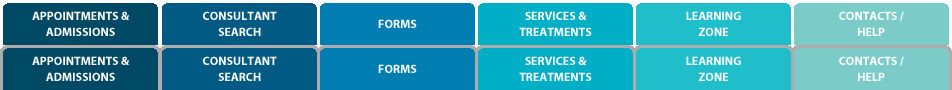
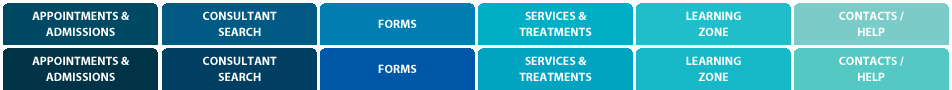
added some images, changes to masterclass form

diff --git a/masterclass/js/emailPage.js b/masterclass/js/emailPage.js
@@ -1,68 +1,78 @@
 $(document).ready(function() {
-//Email stuff**************************************
-var first = document.getElementById('yourName');
-var gmc = document.getElementById('GMC');
-var tel = document.getElementById('tel');
-var email = document.getElementById('email');
-var add1 = document.getElementById('add1');
-var add2 = document.getElementById('add2');
-var city = document.getElementById('city');
-var postcode = document.getElementById('postcode');
-var attentOnline = document.getElementById('attentOnline');
-var Date2703 = document.getElementById('2703');
-var Date0805 = document.getElementById('0805');
-var Date1907 = document.getElementById('1907');
-var Date1809 = document.getElementById('1809');
+    //Email stuff**************************************
+    var first = document.getElementById('yourName');
+    var sur = document.getElementById('surname');
+    var gmc = document.getElementById('GMC');
+    var tel = document.getElementById('tel');
+    var email = document.getElementById('email');
+    var practice = document.getElementById('practice');
+    var add1 = document.getElementById('add1');
+    var add2 = document.getElementById('add2');
+    var city = document.getElementById('city');
+    var postcode = document.getElementById('postcode');
+    var attentOnline = document.getElementById('attentOnline');
+    var Date2703 = document.getElementById('2703');
+    var Date0805 = document.getElementById('0805');
+    var Date1907 = document.getElementById('1907');
+    var Date1809 = document.getElementById('1809');
 
-var nameOn = 1;
-var gmcOn = 1;
-var telOn = 1;
-var emailOn = 1;
-var add1On = 1;
-var add2On = 1;
-var cityOn = 1;
-var postcodeOn = 1;
+    var nameOn = 1;
+    var surOn = 1;
+    var gmcOn = 1;
+    var telOn = 1;
+    var emailOn = 1;
+    var practOn = 1;
+    var add1On = 1;
+    var add2On = 1;
+    var cityOn = 1;
+    var postcodeOn = 1;
 
 
-//empty on click
-$(first).focus(function() { if (nameOn == 1) { $(this).attr('value', '').css('color', '#686868'); nameOn = 0; }; });
-$(gmc).focus(function() { if (gmcOn == 1) { $(this).attr('value', '').css('color', '#686868'); gmcOn = 0; }; });
-$(tel).focus(function() { if (telOn == 1) { $(this).attr('value', '').css('color', '#686868'); telOn = 0; }; });
-$(email).focus(function() { if (emailOn == 1) { $(this).attr('value', '').css('color', '#686868'); emailOn = 0; }; });
-$(add1).focus(function() { if (add1On == 1) { $(this).attr('value', '').css('color', '#686868'); add1On = 0; }; });
-$(add2).focus(function() { if (add2On == 1) { $(this).attr('value', '').css('color', '#686868'); add2On = 0; }; });
-$(city).focus(function() { if (cityOn == 1) { $(this).attr('value', '').css('color', '#686868'); cityOn = 0; }; });
-$(postcode).focus(function() { if (postcodeOn == 1) { $(this).attr('value', '').css('color', '#686868'); postcodeOn = 0; }; });
+    //empty on click
+    $(first).focus(function() { if (nameOn == 1) { $(this).attr('value', '').css('color', '#686868'); nameOn = 0; }; });
+    $(sur).focus(function() { if (surOn == 1) { $(this).attr('value', '').css('color', '#686868'); surOn = 0; }; });
+    $(gmc).focus(function() { if (gmcOn == 1) { $(this).attr('value', '').css('color', '#686868'); gmcOn = 0; }; });
+    $(tel).focus(function() { if (telOn == 1) { $(this).attr('value', '').css('color', '#686868'); telOn = 0; }; });
+    $(email).focus(function() { if (emailOn == 1) { $(this).attr('value', '').css('color', '#686868'); emailOn = 0; }; });
+    $(practice).focus(function() { if (practOn == 1) { $(this).attr('value', '').css('color', '#686868'); practOn = 0; }; });
+    $(add1).focus(function() { if (add1On == 1) { $(this).attr('value', '').css('color', '#686868'); add1On = 0; }; });
+    $(add2).focus(function() { if (add2On == 1) { $(this).attr('value', '').css('color', '#686868'); add2On = 0; }; });
+    $(city).focus(function() { if (cityOn == 1) { $(this).attr('value', '').css('color', '#686868'); cityOn = 0; }; });
+    $(postcode).focus(function() { if (postcodeOn == 1) { $(this).attr('value', '').css('color', '#686868'); postcodeOn = 0; }; });
 
-//send email
-$('#register').click(function() {
+    //send email
+    $('#register').click(function() {
 
-    //validation
-        if (email.value == '' || email.value == 'Email') {
-            $('#email').css('background-color', '#fac2c2');
+        //validation
+        if (sur.value == '' || sur.value == 'Surname') {
+            $('#surname').css('background-color', '#fac2c2');
         } else {
-        if (add1.value == '' || add1.value == 'Address 1') {
-            $('#add1').css('background-color', '#fac2c2');
-        } else {
-        if (city.value == '' || city.value == 'City') {
-            $('#city').css('background-color', '#fac2c2');
-        } else {
-        if (postcode.value == '' || postcode.value == 'Post code') {
-            $('#postcode').css('background-color', '#fac2c2');
-        } else {
-            $('.confirmation').html('Sending...');
-            $('#formHolder').animate({ 'height': '0px' },1000).attr('class', 'ovHid');
-            //Call server side function
-            PageMethods.sendMail(first.value, tel.value, email.value, add1.value, add2.value, city.value,
+            if (email.value == '' || email.value == 'Email') {
+                $('#email').css('background-color', '#fac2c2');
+            } else {
+                if (add1.value == '' || add1.value == 'Address 1') {
+                    $('#add1').css('background-color', '#fac2c2');
+                } else {
+                    if (city.value == '' || city.value == 'City') {
+                        $('#city').css('background-color', '#fac2c2');
+                    } else {
+                        if (postcode.value == '' || postcode.value == 'Post code') {
+                            $('#postcode').css('background-color', '#fac2c2');
+                        } else {
+                            $('.confirmation').html('Sending...');
+                            $('#formHolder').animate({ 'height': '0px' }, 1000).attr('class', 'ovHid');
+                            //Call server side function
+                            PageMethods.sendMail(first.value, sur.value, tel.value, email.value, practice.value, add1.value, add2.value, city.value,
              postcode.value, attentOnline.checked, gmc.value, Date2703.checked, Date0805.checked, Date1907.checked, Date1809.checked, sent, fail);
-            
-        }
-    }
-    }
-    }
-});
 
-function sent() { $('.confirmation').html('Thank you for registering.'); }
-function fail() { $('.confirmation').html('Thank you for registering.'); }
+                        }
+                    }
+                }
+            }
+        }
+    });
+
+    function sent() { $('.confirmation').html('Thank you for registering.'); }
+    function fail() { $('.confirmation').html('Thank you for registering.'); }
 
 });

diff --git a/stylez.css b/stylez.css
@@ -71,12 +71,12 @@ display: inline;vertical-align: bottom;
 ul{height:42px; min-height:42px; margin: 0px auto;}
 li{list-style:none; display: inline; width: 158px; height:42px; min-width: 158px; min-height:42px; float: left;}
 li a{width: 158px; height:42px; min-width: 158px; min-height:42px;background-image: url(img/nav.png); display: block;}
-li a#appoint{background-position: 0px 0px; min-width: 159px ! Important;}/* li a#appoint:hover{background-position: 0px 45px; min-width: 159px ! Important;}*/ #appointLi{ min-width: 159px ! Important;}
-li a#consultant{background-position:792px 0px;}/* li a#consultant:hover{background-position:792px 45px;}*/
-li a#forms{background-position: 634px 0px;}/*li a#forms:hover{background-position: 634px 45px;}*/
-li a#services{background-position: 476px 0px;}/*li a#services:hover{background-position: 476px 45px;}*/
-li a#learning{background-position: 318px 0px;}/*li a#learning:hover{background-position: 318px 45px;}*/
-li a#contact{background-position: 160px 0px;min-width: 160px;}/*li a#contact:hover{background-position: 160px 45px;min-width: 160px;}*/
+li a#appoint{background-position: 0px 0px; min-width: 159px ! Important;} li a#appoint:hover{background-position: 0px 45px; min-width: 159px ! Important;} #appointLi{ min-width: 159px ! Important;}
+li a#consultant{background-position:792px 0px;} li a#consultant:hover{background-position:792px 45px;}
+li a#forms{background-position: 634px 0px;} li a#forms:hover{background-position: 634px 45px;}
+li a#services{background-position: 476px 0px;} li a#services:hover{background-position: 476px 45px;}
+li a#learning{background-position: 318px 0px;} li a#learning:hover{background-position: 318px 45px;}
+li a#contact{background-position: 160px 0px;min-width: 160px;} li a#contact:hover{background-position: 160px 45px;min-width: 160px;}
 .buttons{}
 
 /* menus -------------*/

diff --git a/js/rollover.js b/js/rollover.js
@@ -13,7 +13,7 @@
             $(this).attr('title', 'Close'); $('#' + Openid).animate({ height: openTo }, // height has to be set unfortunatly otherwise no animation
                   900, 'easeOutBack').attr('class', 'dropDown');
         } else if ($(this).attr('title') == 'Close') {
-            close(this, Openid);
+         close(this, Openid);
         }
     });
 
@@ -21,7 +21,7 @@
     function close(id2, Openid) {
 
         $('#' + Openid).animate({ height: '0px' }, 800, 'swing'); $(id2).attr('title', 'Open');
-        $('#' + Openid).attr('class', 'ovNone');
+        setTimeout(function() { $('#' + Openid).attr('class', 'ovNone'); }, 800); 
     }
 
 

diff --git a/masterclass/stylez.css b/masterclass/stylez.css
@@ -80,4 +80,6 @@ h3{font-size:11.5px; color: #004b63; font-weight:bold;}
 .qual{font-size:14px; color: #007cae; font-weight:normal;}.nhs{ padding-bottom:8px;}
 .red{color: #cf4439;}.endoList{margin-bottom:10px;} 
 
+.eduFirst{padding-top:1px;}
+.eduLast{margin-bottom:230px ! Important;}
 
